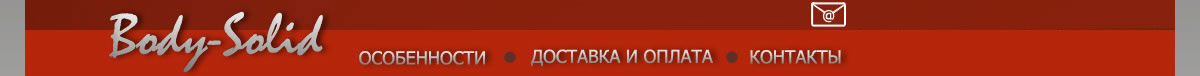
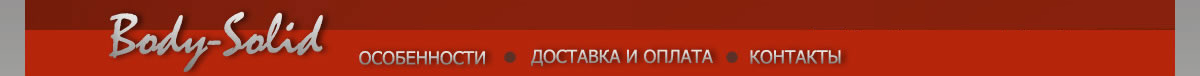
Styles for iPhone

Changed region(s): [[0.6783, 0.0263, 0.7092, 0.3684]]

diff --git a/www/styles/index.css b/www/styles/index.css
@@ -87,24 +87,21 @@ div.top {
     background-repeat: no-repeat;
 }
 
-div.top a.email {
-    margin-top: 2px;
-    margin-left: 810px;
-    width: 35px;
-    height: 25px;
-    display: block;
-    position: absolute;
-}
-
 div.top div.phone {
     margin-top: 2px;
-    margin-left: 853px;
-    width: 320px;
+    margin-left: 750px;
+    width: 420px;
     height: 25px;
     display: block;
     position: absolute;
-    font-size: 21px;
     color: white;
+    font-size: 21px;
+    text-align: right;
+}
+div.top div.phone a {
+    color: white;
+    font-size: 21px;
+    text-decoration: none;
 }
 
 div.top a.index {
@@ -422,22 +419,20 @@ a.discount img {
 }
 
 .product-list .product {
-    float: left;
-    width: 220px;
+    display: inline-table;
+    width: 210px;
     padding: 10px;
 }
 
 .product-list .product .product-image {
     text-align: center;
     vertical-align: top;
-    width: 200px;
     height: 150px;
 }
 
 .product-list .product .product-title {
     text-align: center;
     vertical-align: bottom;
-    width: 200px;
     height: 30px;
     overflow: hidden;
 }

diff --git a/www/styles/begi/index.css b/www/styles/begi/index.css
@@ -87,24 +87,21 @@ div.top {
     background-repeat: no-repeat;
 }
 
-div.top a.email {
-    margin-top: 2px;
-    margin-left: 810px;
-    width: 35px;
-    height: 25px;
-    display: block;
-    position: absolute;
-}
-
 div.top div.phone {
     margin-top: 2px;
-    margin-left: 853px;
-    width: 320px;
+    margin-left: 750px;
+    width: 420px;
     height: 25px;
     display: block;
     position: absolute;
-    font-size: 21px;
     color: white;
+    font-size: 21px;
+    text-align: right;
+}
+div.top div.phone a {
+    color: white;
+    font-size: 21px;
+    text-decoration: none;
 }
 
 div.top a.index {
@@ -422,8 +419,8 @@ a.discount img {
 }
 
 .product-list .product {
-    float: left;
-    width: 220px;
+    display: inline-table;
+    width: 210px;
     padding: 10px;
 }
 

diff --git a/www/styles/steelflex/index.css b/www/styles/steelflex/index.css
@@ -87,24 +87,21 @@ div.top {
     background-repeat: no-repeat;
 }
 
-div.top a.email {
-    margin-top: 2px;
-    margin-left: 810px;
-    width: 35px;
-    height: 25px;
-    display: block;
-    position: absolute;
-}
-
 div.top div.phone {
     margin-top: 2px;
-    margin-left: 853px;
-    width: 320px;
+    margin-left: 750px;
+    width: 420px;
     height: 25px;
     display: block;
     position: absolute;
-    font-size: 21px;
     color: white;
+    font-size: 21px;
+    text-align: right;
+}
+div.top div.phone a {
+    color: white;
+    font-size: 21px;
+    text-decoration: none;
 }
 
 div.top a.index {
@@ -422,8 +419,8 @@ a.discount img {
 }
 
 .product-list .product {
-    float: left;
-    width: 220px;
+    display: inline-table;
+    width: 210px;
     padding: 10px;
 }
 
